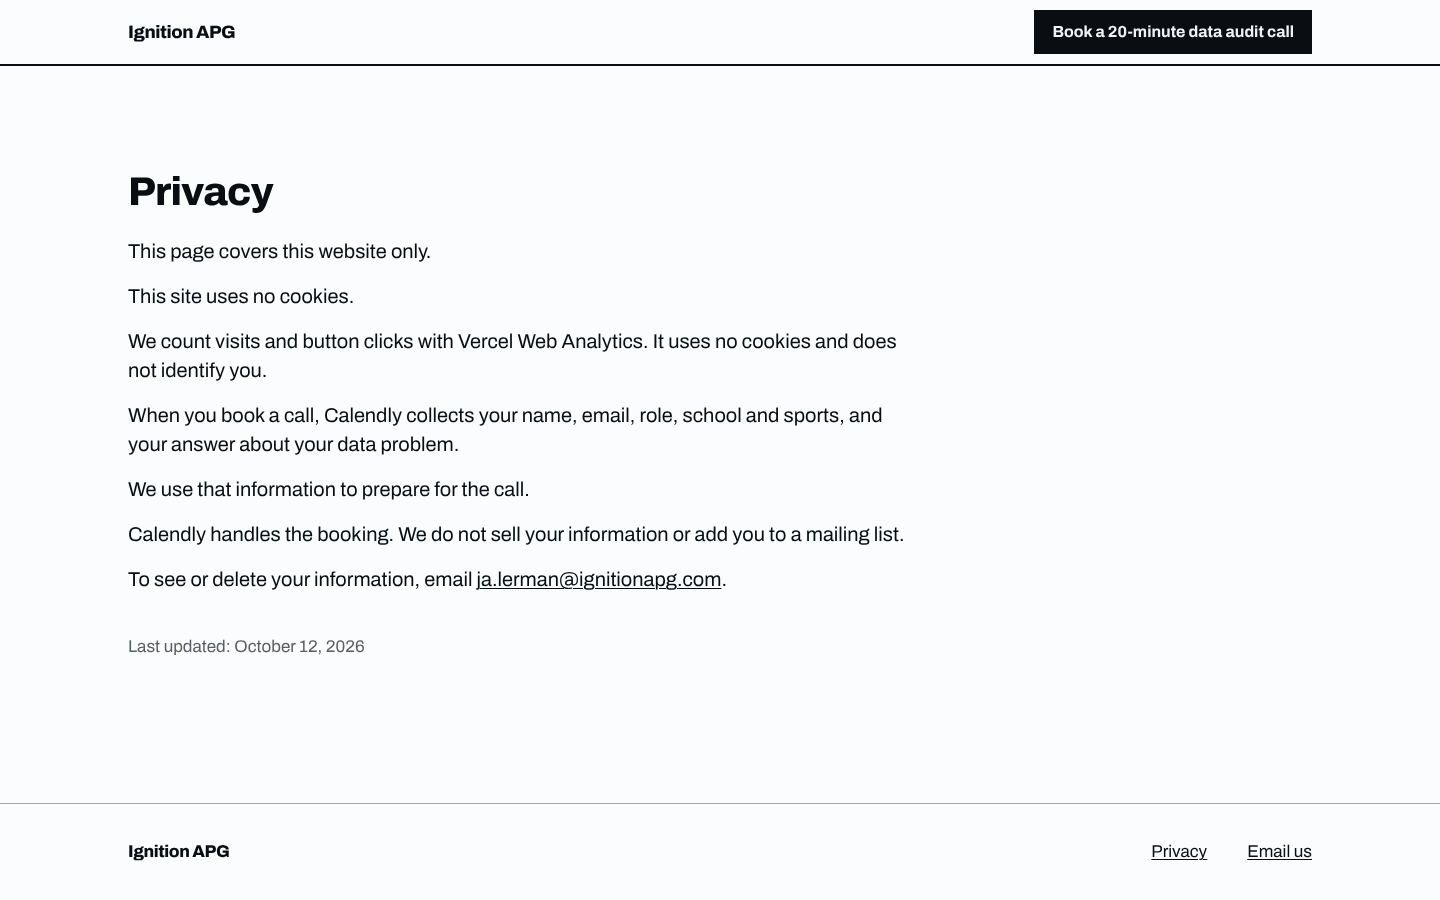
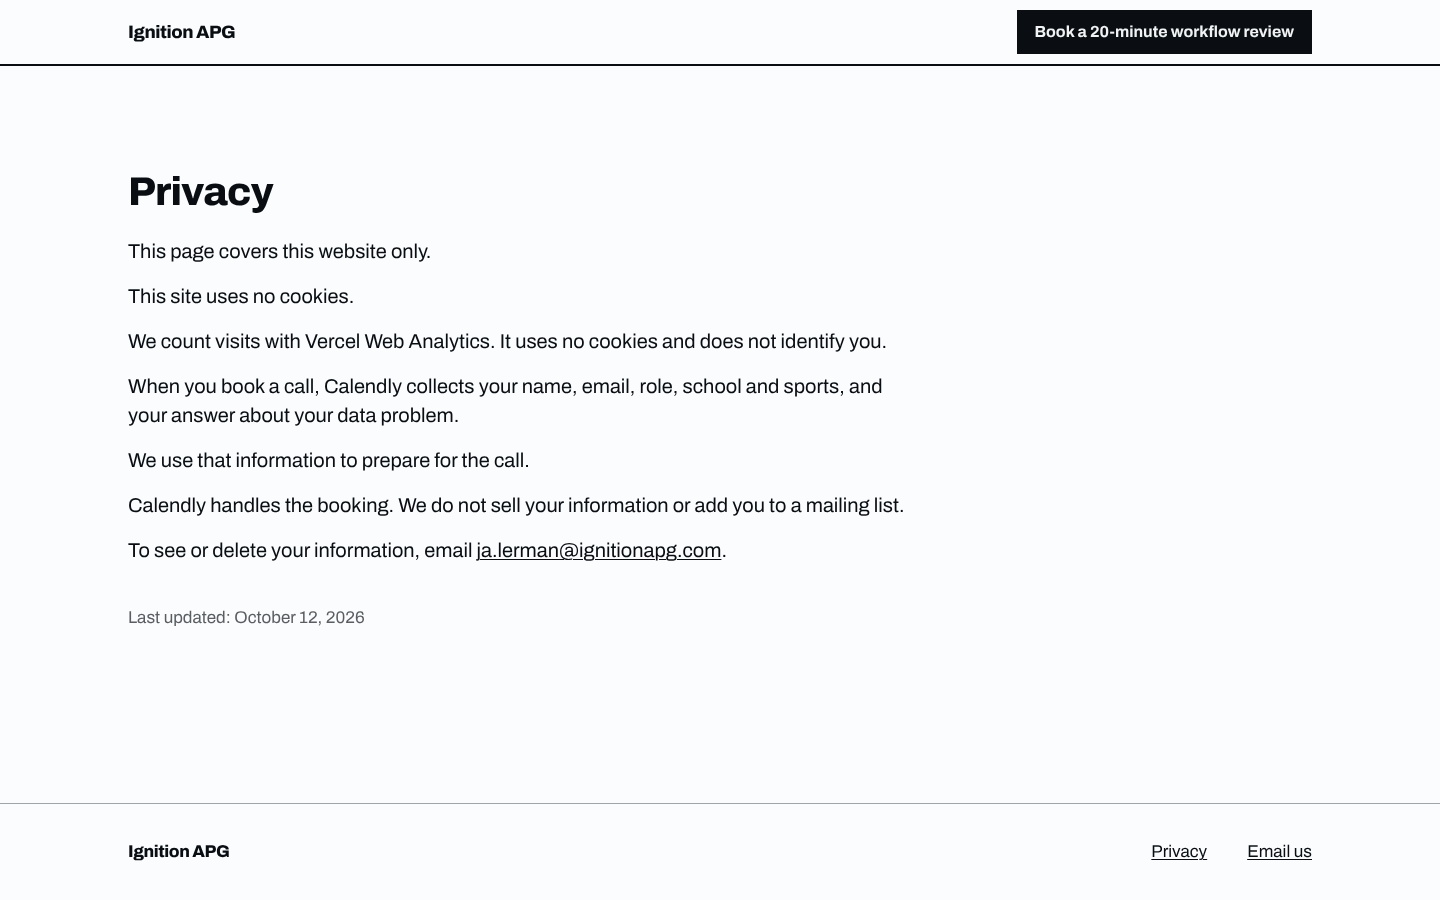
Rewrite problem section, rename booking button, specialist heading, privacy line
Claude-Session: https://claude.ai/code/session_01X9BRkj4E1FyPfGCiP91Am8

Changed region(s): [[0.0938, 0.3733, 0.625, 0.6533], [0.0938, 0.6844, 0.25, 0.7467], [0.6875, 0.0, 0.9062, 0.0622]]

diff --git a/src/content/site.ts b/src/content/site.ts
@@ -12,7 +12,7 @@ export const site = {
   pageTitle: "Ignition APG: athlete data your staff can trust",
   description:
     "Ignition APG gives college athletic departments a data team. We collect, check, connect, and explain athlete data. Every decision stays with your staff.",
-  bookButton: "Book a 20-minute data audit call",
+  bookButton: "Book a 20-minute workflow review",
   emailLink: "Email us",
 };
 
@@ -33,21 +33,23 @@ export const rolePicker = {
     "Sport scientist",
     "Athletic trainer",
   ],
-  otherLink: "Other role? Book a 20-minute data audit call",
+  otherLink: "Other role? Book a 20-minute workflow review",
 };
 
+// Section 2, rewritten by Jake on 2026-10-13.
 export const problem = {
-  heading: "Performance staff cannot trust their numbers, and nobody owns fixing them.",
+  heading: "Performance staff have the data. Nobody owns the work between collection and decision.",
   symptoms: [
-    "Your sport scientist cleans exports when they should be with athletes and coaches.",
-    "The report arrives after the meeting where the coaches needed it.",
-    "One person runs the GPS, the force plates, and the AMS, and the systems do not connect.",
+    "High-value staff spend time cleaning files and refreshing reports.",
+    "The report arrives after coaches needed the information.",
+    "One person manages data from GPS, force plates, and the AMS, but the systems do not work together.",
+    "Each new system adds work when nobody owns the workflow.",
   ],
-  closingLine: "Each new system adds work when nobody owns the workflow.",
-  departmentMessage: [
-    "Your staff should coach, not fix spreadsheets.",
-    "We work alongside the systems you already use.",
-    "When a number looks wrong, we find the cause. We correct it with your staff, or we exclude it and record the reason.",
+  solution: [
+    "Ignition APG gives your staff a sport science data specialist.",
+    "The specialist works across the systems you already use.",
+    "We monitor incoming data, investigate problems, maintain the workflow, and deliver current information before coaches need it.",
+    "Your staff add context, interpret the information, and make the decisions.",
   ],
 };
 
@@ -83,7 +85,7 @@ export const handUs = {
 
 // Data specialist section (Jake, 2026-10-13). A role, with no name, no photo, and no personal story.
 export const specialist = {
-  heading: "One person owns your data.",
+  heading: "One person owns your data work.",
   text: "Your data specialist learns your systems, your sports, and your staff. Our software does the repeat checks. Your specialist reviews every flagged number. You do not get a support queue.",
   who: {
     heading: "Who your data specialist is",
@@ -198,7 +200,7 @@ export const privacy = {
   paragraphs: [
     "This page covers this website only.",
     "This site uses no cookies.",
-    "We count visits and button clicks with Vercel Web Analytics. It uses no cookies and does not identify you.",
+    "We count visits with Vercel Web Analytics. It uses no cookies and does not identify you.",
     "When you book a call, Calendly collects your name, email, role, school and sports, and your answer about your data problem.",
     "We use that information to prepare for the call.",
     "Calendly handles the booking. We do not sell your information or add you to a mailing list.",

diff --git a/docs/MESSAGE.md b/docs/MESSAGE.md
@@ -8,6 +8,13 @@ How to read it:
 - Every slot you had to fill is now filled. The only placeholder left is the privacy date, which is set at launch.
 - What is left for you is at the bottom.
 
+## What changed in v6 (Jake, 2026-10-13, round 2)
+
+- Section 2 is rewritten: a new heading, four symptoms, a four-line answer, and a booking button.
+- Every booking button now says "Book a 20-minute workflow review". This replaces "Book a 20-minute data audit call".
+- The specialist heading is "One person owns your data work."
+- The privacy page says "We count visits", because the free Vercel plan counts visits only.
+
 ## What changed in v5 (Jake, 2026-10-13)
 
 - Hero: a role picker replaces the single button. "What best describes your role?" with five role buttons, then the link "Other role? Book a 20-minute data audit call". Each role button opens Calendly with the role already filled in.
@@ -52,7 +59,7 @@ How to read it:
 | Element | Copy |
 |---|---|
 | Name | Ignition APG |
-| Button | Book a 20-minute data audit call |
+| Button | Book a 20-minute workflow review |
 
 ## 1. Hero
 
@@ -67,23 +74,27 @@ How to read it:
 | Role button | Director of Strength and Conditioning |
 | Role button | Sport scientist |
 | Role button | Athletic trainer |
-| Link | Other role? Book a 20-minute data audit call |
+| Link | Other role? Book a 20-minute workflow review |
 | Under the button | Every decision stays with your coaches and clinicians. |
 
 Each role button opens Calendly with that role filled in. The "Other role?" link opens Calendly with no role filled in. Setup: `docs/BOOKING.md`, "Role prefill".
 
-## 2. The problem
+## 2. The problem (rewritten by Jake, 2026-10-13)
 
 | Element | Copy |
 |---|---|
-| Heading | Performance staff cannot trust their numbers, and nobody owns fixing them. |
-| Symptom 1 | Your sport scientist cleans exports when they should be with athletes and coaches. |
-| Symptom 2 | The report arrives after the meeting where the coaches needed it. |
-| Symptom 3 | One person runs the GPS, the force plates, and the AMS, and the systems do not connect. |
-| Closing line | Each new system adds work when nobody owns the workflow. |
-| Department message | Your staff should coach, not fix spreadsheets. We work alongside the systems you already use. When a number looks wrong, we find the cause. We correct it with your staff, or we exclude it and record the reason. |
+| Heading | Performance staff have the data. Nobody owns the work between collection and decision. |
+| Symptom | High-value staff spend time cleaning files and refreshing reports. |
+| Symptom | The report arrives after coaches needed the information. |
+| Symptom | One person manages data from GPS, force plates, and the AMS, but the systems do not work together. |
+| Symptom | Each new system adds work when nobody owns the workflow. |
+| Solution | Ignition APG gives your staff a sport science data specialist. |
+| Solution | The specialist works across the systems you already use. |
+| Solution | We monitor incoming data, investigate problems, maintain the workflow, and deliver current information before coaches need it. |
+| Solution | Your staff add context, interpret the information, and make the decisions. |
+| Button | Book a 20-minute workflow review |
 
-The symptoms appear as plain lines, with no names and no quote marks. That way they read as the problem, not as testimonials. The department message turns the page from the problem to the offer.
+The symptoms appear as plain lines, with no names and no quote marks. Jake's draft said "Ignition", "a dedicated sport science data operator", and "Your staff adds". With his approval these became "Ignition APG", "a sport science data specialist" ("dedicated" is a banned word, and "data specialist" is the site's one term), and "Your staff add".
 
 ## 3. What you can hand us
 
@@ -107,7 +118,7 @@ The symptoms appear as plain lines, with no names and no quote marks. That way t
 
 | Element | Copy |
 |---|---|
-| Heading | One person owns your data. |
+| Heading | One person owns your data work. |
 | Text | Your data specialist learns your systems, your sports, and your staff. Our software does the repeat checks. Your specialist reviews every flagged number. You do not get a support queue. |
 | Subheading | Who your data specialist is |
 | Point | Every data specialist has worked in sports performance and in data. |
@@ -186,7 +197,7 @@ Approved as written. There is no personal story and no photo.
 | Element | Copy |
 |---|---|
 | Heading | Bring the data problem that costs your staff the most time. |
-| Button | Book a 20-minute data audit call |
+| Button | Book a 20-minute workflow review |
 | Email line | Or email us at ja.lerman@ignitionapg.com. |
 
 ## Footer
@@ -214,7 +225,7 @@ Approved as written. There is no personal story and no photo.
 | Heading | Privacy |
 | Text | This page covers this website only. |
 | Text | This site uses no cookies. |
-| Text | We count visits and button clicks with Vercel Web Analytics. It uses no cookies and does not identify you. |
+| Text | We count visits with Vercel Web Analytics. It uses no cookies and does not identify you. |
 | Text | When you book a call, Calendly collects your name, email, role, school and sports, and your answer about your data problem. |
 | Text | We use that information to prepare for the call. |
 | Text | Calendly handles the booking. We do not sell your information or add you to a mailing list. |
@@ -237,7 +248,7 @@ Before launch, Stage 3 checks that every line above is true. One example: if the
 
 | Where | Goes to |
 |---|---|
-| Every "Book a 20-minute data audit call" button (header, hero, final section) | https://calendly.com/ja-lerman-ignitionapg/intro-call |
+| Every "Book a 20-minute workflow review" button (header, section 2, How it starts, final section) and the "Other role?" link | https://calendly.com/ja-lerman-ignitionapg/intro-call |
 | Every "Email us" link and email line | ja.lerman@ignitionapg.com |
 | Calendly, after a booking | the site's thank-you page. Setup steps are in `docs/BOOKING.md`. |
 

diff --git a/docs/STATUS.md b/docs/STATUS.md
@@ -104,6 +104,12 @@ Last updated: 2026-10-12
 
 ## Jake's decisions so far
 
+- 2026-10-13 (round 2):
+  - Section 2 rewritten. Every booking button now says "Book a 20-minute workflow review".
+  - "Data specialist" stays the one term. "Dedicated" was dropped.
+  - Specialist heading: "One person owns your data work."
+  - Privacy: "We count visits".
+
 - 2026-10-13 (review of the preview; not a launch):
   - New data specialist section after "What you can hand us". It is a role with no person.
   - A hero role picker of five roles plus "Other role?", with Calendly role prefill through `a1`.
@@ -148,15 +154,12 @@ Last updated: 2026-10-12
 ## Waiting on Jake
 
 1. **Review the preview** on PR #1 (https://github.com/jlerm13/ignition-apg-website/pull/1). The branch preview is https://ignition-apg-website-git-claude-clever-526011-jlerm13s-projects.vercel.app/
-2. **Calendly role prefill:** follow `docs/BOOKING.md` step 2b.
-   - "What is your role?" must be the first added question and of type One line.
-   - Then test the `?a1=Sport%20scientist` link.
-3. **Two wording flags** (his words kept as written until he decides):
-   - "One person owns your data." could read as us owning athlete data. A possible alternative: "One person owns your data work."
-   - "Our software does the repeat checks." sits close to the rule against implying software works on its own.
-4. **Privacy line** (from earlier): change "We count visits and button clicks" to "We count visits", because the free plan counts visits only?
-5. **Set the Calendly redirect** and make one test booking (audit check 11).
-6. **When ready:** Jake clicks merge on PR #1 to publish. Never merge for him.
+2. **In Calendly:**
+   - Rename the event to "20-minute workflow review".
+   - Check the role prefill (`docs/BOOKING.md` step 2b).
+   - Set the redirect to the thank-you page.
+   - Make one test booking (audit check 11).
+3. **When ready:** Jake clicks merge on PR #1 to publish. Never merge for him.
 
 ## The stages
 

diff --git a/docs/BRIEF.md b/docs/BRIEF.md
@@ -69,6 +69,14 @@ Jake filled every open slot. The words are in `docs/MESSAGE.md` v4. New facts:
 4. **Approved wording for wrong numbers, in both places:** "We find the cause. We correct it with your staff, or we exclude it and record the reason." Nowhere on the site may we say we "fix" a value. BASIS never edits a value in place.
 5. **Questions open and close on click or tap,** using native details and summary. All are closed when the page loads. The answers do not change.
 
+## Changes from Jake, 2026-10-13 (round 2)
+
+1. **Section 2 is rewritten.** The problem line in 3.4 is replaced by "Performance staff have the data. Nobody owns the work between collection and decision." The full section is in `docs/MESSAGE.md` section 2.
+2. **The booking button is renamed** to "Book a 20-minute workflow review" everywhere. This replaces the gate 1 decision "Book a 20-minute data audit call".
+3. **"Data specialist" is the site's one term** for the person. "Data operator" is not used. "Dedicated" stays banned.
+4. **The specialist heading** is "One person owns your data work."
+5. **The privacy line** says "We count visits with Vercel Web Analytics", because the free plan counts visits only.
+
 ## 3.1 Job of the site
 Get a qualified college performance leader to book a 20-minute call with Jake.
 

diff --git a/docs/BOOKING.md b/docs/BOOKING.md
@@ -8,7 +8,7 @@ Do these steps in Calendly on a computer. Calendly sometimes moves or renames it
 
 1. In Calendly, open **Scheduling** (or **Event Types**). Click the "intro-call" event to edit it.
 2. Set **Duration** to **20 min**.
-3. Set **Event name** to **20-minute data audit call**. This matches the button on the site.
+3. Set **Event name** to **20-minute workflow review**. This matches the button on the site (renamed 2026-10-13; if you already named it "20-minute data audit call", rename it).
 4. In **Location**, pick how you meet: Zoom, Google Meet, or phone.
 5. Leave the event link as `intro-call`. If you change it, tell me, so I can update the site.
 
@@ -72,7 +72,7 @@ The site counts a booking when someone lands on its thank-you page. Calendly mus
 
 After the redirect is set and the site is live:
 
-1. Open the site on your phone. Tap **Book a 20-minute data audit call**.
+1. Open the site on your phone. Tap **Book a 20-minute workflow review**.
 2. Book a time with test answers.
 3. Check that you land on the page that says **Your call is booked.**
 4. Cancel the test booking in Calendly.

diff --git a/CLAUDE.md b/CLAUDE.md
@@ -37,6 +37,7 @@ Task IDs from the brief (for example `PDS-W1-T1`) are for traceability only. The
 These sit on top of the hard rules. Full text is at the top of `docs/BRIEF.md`.
 
 - The site name is Ignition APG (round 2).
+- The booking button says "Book a 20-minute workflow review" everywhere (Jake, 2026-10-13). The person is always "data specialist", never "data operator".
 - BASIS appears once on the site, in the answer to "What do we get?", as "BASIS, our software." Nowhere else (round 2).
 - Say "a data specialist from Ignition APG," never "hire." Do not use "forward deployed engineer" on the site.
 - Do not quote Athena's founder or any Athena material anywhere, on the site or in repo docs.

diff --git a/docs/SHAPE.md b/docs/SHAPE.md
@@ -16,7 +16,7 @@ Written by Impeccable `shape` (instructions-only fallback) on 2026-10-12. Update
 
 ## 2. Outcome and proof
 
-- **Primary action:** "Book a 20-minute data audit call." The name is open until gate 1. It is a link to Jake's booking page.
+- **Primary action:** "Book a 20-minute workflow review" (renamed by Jake on 2026-10-13). It is a link to Jake's booking page.
 - **Secondary action:** email us. The site says "us," not "Jake."
 - **Success:** a qualified booking.
 - **What only Ignition can show:** a written limit with equal weight to the offer.
